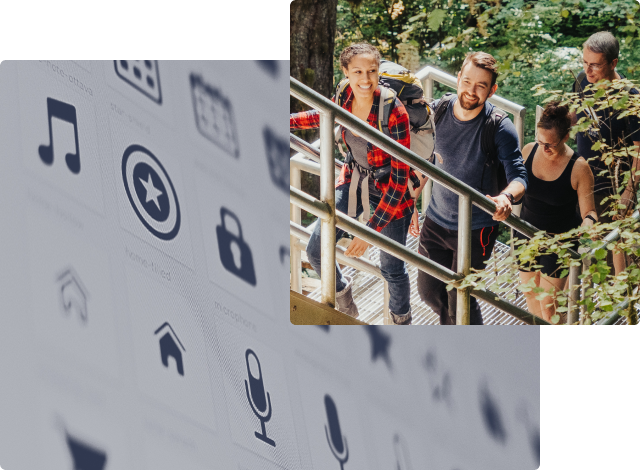
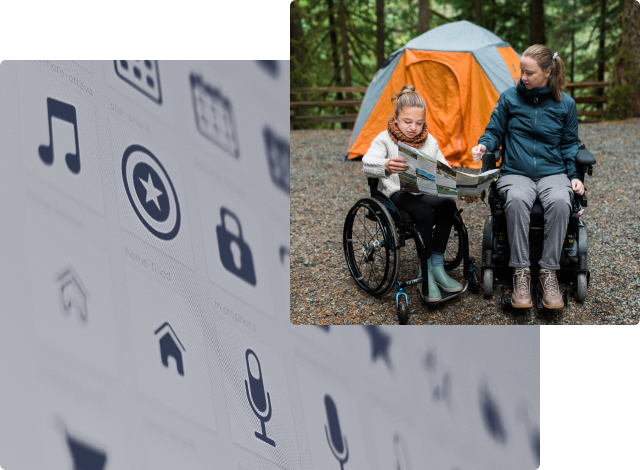
BRS-342 Add beta landing page infrastructure and minor content updates (#239)
* Add build and deploy for landing page

* Content update and layout fixes

* Update image

diff --git a/src/static-landing/index.html b/src/static-landing/index.html
@@ -4,7 +4,7 @@
     <meta charset="UTF-8" />
     <meta name="viewport" content="width=device-width, initial-scale=1.0" />
     <meta http-equiv="X-UA-Compatible" content="ie=edge" />
-    <title>BC Parks Beta</title>
+    <title>BCParks.ca Beta</title>
     <link rel="icon" type="image/x-icon" href="images/favicon_bcid.ico" />
     <link rel="stylesheet" href="css/bootstrap-theme.min.css" />
     <link rel="stylesheet" href="css/style.css" />
@@ -24,52 +24,65 @@
       </div>
     </nav>
     <div class="container-fluid beta-welcome">
-      <h1 class="text-center beta-welcome_main-heading">BC PARKS BETA</h1>
-      <p class="text-center beta-welcome_sub-heading">A new experience is coming this year</p>
+      <h1 class="text-center beta-welcome_main-heading">BCPARKS.CA BETA</h1>
+      <p class="text-center beta-welcome_sub-heading">A new experience is coming this year!</p>
       <div class="text-center beta-welcome_screenshots-container">
         <img class="beta-welcome_screenshots" src="images/laptop-mobile-demo.png" alt="Beta Screenshots" />
       </div>
     </div>
     <div class="container">
       <p class="text-center mx-auto beta-description">
-        BC Parks is on a mission to improve public services for everyone. Through extensive research and collaboration
-        across government ministries, our 2022 experience will help everyone including park operators, families, and
-        government staff book, manage, and visit BC Parks.
+        BC Parks is on a mission to improve our digital services. Through extensive research and collaboration across
+        government ministries, our 2022 experience will help park visitors, park operators and BC Parks staff to better
+        plan for, manage and visit BC Parks. This is just the beginning – and we invite you to engage with us along the
+        way!
       </p>
     </div>
 
-    <div class="container d-flex flex-lg-nowrap flex-wrap justify-content-between align-items-center contents">
-      <div class="order-lg-first">
-        <h2>Building across public and private</h2>
-        <p>This is a paragraph about our dedication to building in public.</p>
-        <a class="btn" href="https://bcgov.github.io/bcparks">View Github</a>
-      </div>
-      <div class="order-first">
-        <img src="images/public-private-code.png" style="width: 100%" alt="" />
-      </div>
-    </div>
-
-    <div class="container d-flex flex-lg-nowrap flex-wrap justify-content-between align-items-center contents">
-      <div class="order-first">
-        <img src="images/research-driven.png" style="width: 100%" alt="" />
-      </div>
-      <div class="order-lg-first">
-        <h2>Research Driven</h2>
-        <p>Making it easier to understand reservation systems and policies for everyone.</p>
-        <a class="btn" href="https://forms2.gov.bc.ca/forms/content?id=845AC163218D4AC582FE7D3523623EA9">Learn More</a>
+    <div class="container contents">
+      <div class="row align-items-center">
+        <div class="col-12 col-lg-6 order-lg-first">
+          <h2>Building across the public and private sectors</h2>
+          <p>
+            BC Parks commits to our digital services work creating bridges between the public and private sector,
+            supporting our local digital talent community, and ensuring this work is done in the open.
+          </p>
+          <a class="btn" href="https://bcgov.github.io/bcparks">View Github</a>
+        </div>
+        <div class="col-12 col-lg-6 order-first">
+          <img src="images/public-private-code.png" alt="Building across the public and private sectors" />
+        </div>
       </div>
     </div>
 
-    <div class="container d-flex flex-lg-nowrap flex-wrap justify-content-between align-items-center contents">
-      <div class="order-lg-first">
-        <h2>Accessible Design</h2>
-        <p>This is a paragraph about our dedication to building in public.</p>
-        <a class="btn" href="https://www2.gov.bc.ca/gov/content/home/accessible-government/toolkit">Learn More</a>
-      </div>
-      <div class="order-first">
-        <img src="images/accessible-design.png" style="width: 100%" alt="" />
+    <div class="container contents">
+      <div class="row align-items-center">
+        <div class="col-12 col-lg-6 order-first">
+          <img src="images/research-driven.png" alt="Research Driven" />
+        </div>
+        <div class="col-12 col-lg-6 order-lg-first">
+          <h2>Research Driven</h2>
+          <p>BC Parks wants user research to inform and guide improvements to our digital services.</p>
+          <a class="btn" href="https://forms2.gov.bc.ca/forms/content?id=845AC163218D4AC582FE7D3523623EA9"
+            >Learn More</a
+          >
+        </div>
       </div>
     </div>
+
+    <div class="container contents">
+      <div class="row align-items-center">
+        <div class="col-12 col-lg-6 order-lg-first">
+          <h2>Accessible Design</h2>
+          <p>BC Parks is dedicated to ensuring our services are built to be accessible by everyone.</p>
+          <a class="btn" href="https://www2.gov.bc.ca/gov/content/home/accessible-government/toolkit">Learn More</a>
+        </div>
+        <div class="col-12 col-lg-6 order-first">
+          <img src="images/accessible-design.png" alt="Accessible Design" />
+        </div>
+      </div>
+    </div>
+
     <div class="container">
       <div class="research">
         <div class="research_large-screen">
@@ -82,7 +95,9 @@
         <div class="research_narrow-screen">
           <div class="d-flex align-items-end research_narrow-screen_flex-container">
             <div class="research_narrow-screen_content">
-              <a class="h1" href="https://forms2.gov.bc.ca/forms/content?id=845AC163218D4AC582FE7D3523623EA9">Help us make BC Parks better</a>
+              <a class="h1" href="https://forms2.gov.bc.ca/forms/content?id=845AC163218D4AC582FE7D3523623EA9"
+                >Help us make BC Parks better</a
+              >
             </div>
           </div>
         </div>

diff --git a/src/static-landing/css/style.css b/src/static-landing/css/style.css
@@ -108,6 +108,10 @@ a.btn:hover {
   color: #000;
 }
 
+.contents img {
+  width: 100%;
+}
+
 .research {
   background-image: url("../images/research-intake.png");
   background-position: center;
@@ -143,6 +147,10 @@ a.btn:hover {
 .research_narrow-screen_content a:visited {
   color: #fff;
   text-decoration: none;
+}
+
+.research_narrow-screen_content a:hover {
+  color: #fcba19;
 }
 
 .social-media {
